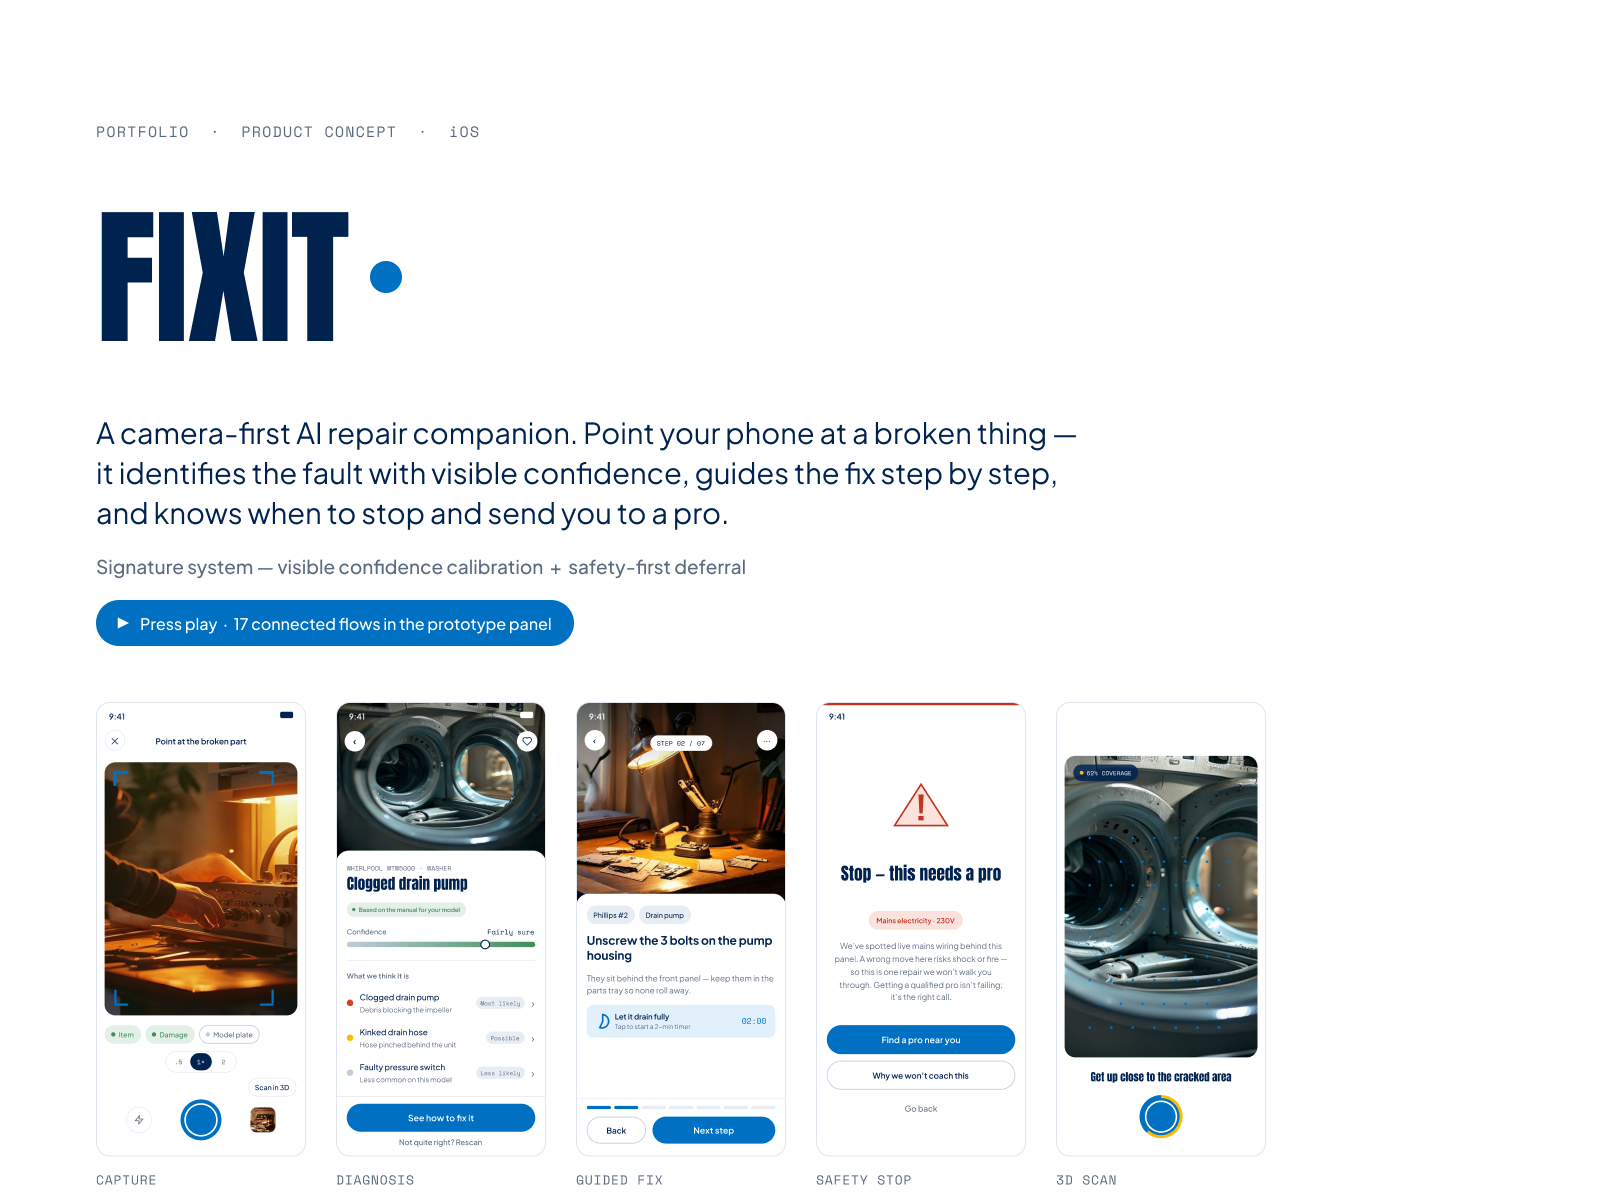
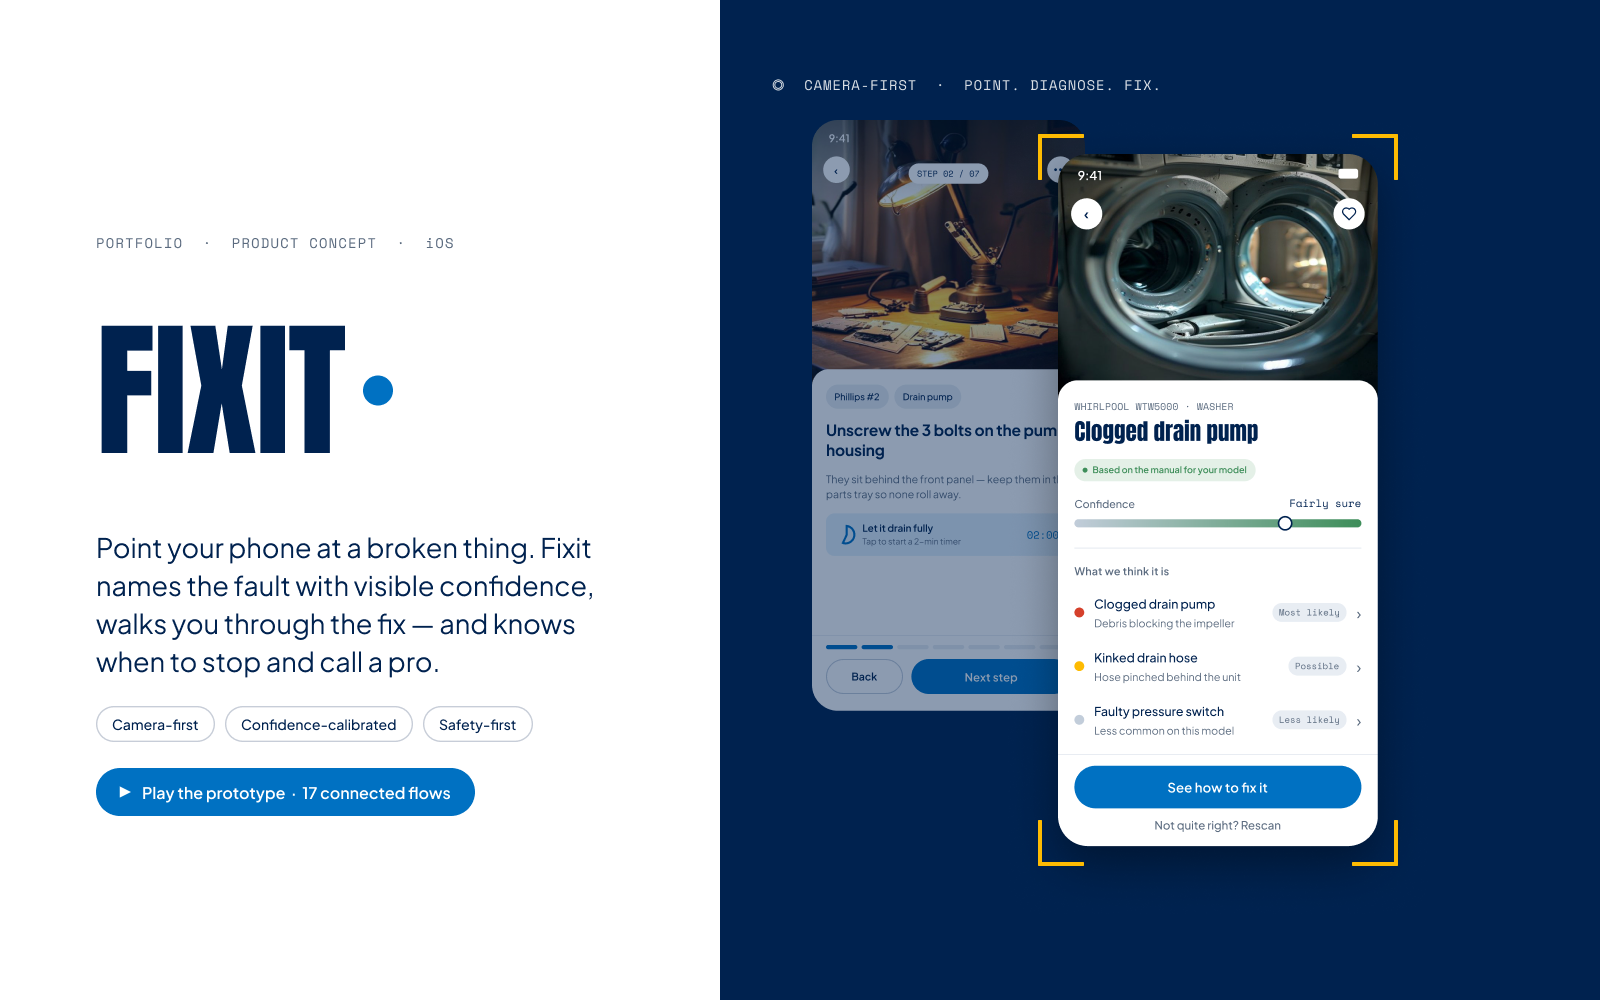
fix(case): constrain gallery screenshots; redesign Fixit cover
- case-study gallery: cap each image height (max-h 680) and centre it so
  portrait phone screenshots no longer blow up to full-width / ~2200px
  tall; wide images (flow-maps) still fill width. Affects all projects.
- new Fixit cover.png (editorial split: wordmark + tagline left, hero
  screens in a camera-reticle on a navy panel)

diff --git a/src/components/case/CaseView.tsx b/src/components/case/CaseView.tsx
@@ -236,27 +236,26 @@ export default function CaseView({
               return (
                 <Reveal key={src} y={28}>
                   <div
-                    className="overflow-hidden rounded-2xl border border-ink/10 p-2 md:p-3"
+                    className="mx-auto w-fit max-w-full overflow-hidden rounded-2xl border border-ink/10 p-2 md:p-3"
                     style={{ backgroundColor: `${project.accent}14` }}
                   >
-                    <Image
+                    {/* eslint-disable-next-line @next/next/no-img-element */}
+                    <img
                       src={src}
                       alt={caption ?? `${project.title} — screen ${i + 1}`}
-                      width={1640}
-                      height={1040}
-                      sizes="(min-width: 1024px) 1040px, 100vw"
-                      className="h-auto w-full rounded-xl"
+                      loading="lazy"
+                      className="block max-h-[680px] w-auto max-w-full rounded-xl object-contain"
                     />
                   </div>
                   {caption && (
-                    <div className="mt-4 flex gap-3 md:gap-4">
+                    <div className="mx-auto mt-5 flex max-w-[60ch] gap-3 md:gap-4">
                       <span
                         className="mono mt-[3px] shrink-0 text-[13px]"
                         style={{ color: project.accent }}
                       >
                         {String(i + 1).padStart(2, "0")}
                       </span>
-                      <p className="max-w-[64ch] text-[14px] normal-case leading-relaxed opacity-80 md:text-[15px]">
+                      <p className="text-[14px] normal-case leading-relaxed opacity-80 md:text-[15px]">
                         {caption}
                       </p>
                     </div>